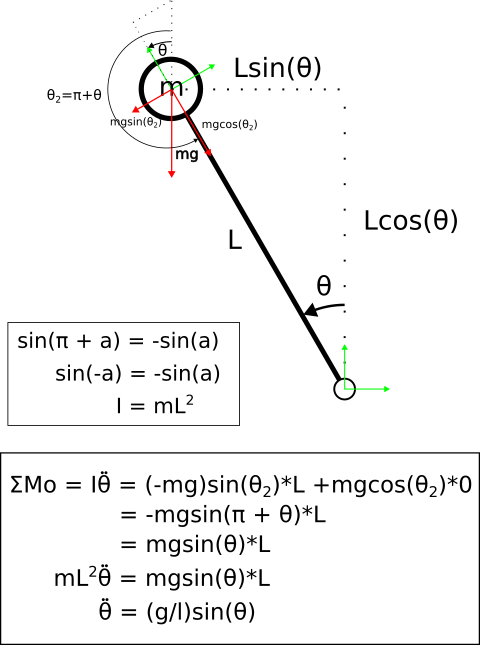
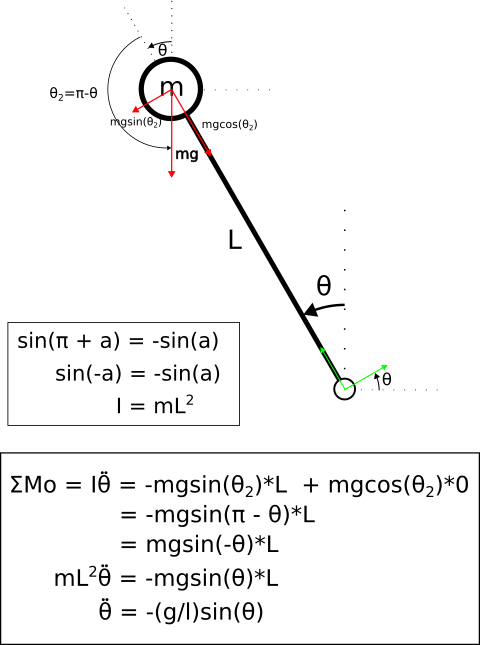
Updated image

diff --git a/numerical_solver.py b/numerical_solver.py
@@ -13,7 +13,7 @@ def forward_euler(pendulum_length, initial_condition: [], sim_time: [], dt):
     sim_dp = []
     sim_ddp = []
     for t in time:
-        ddp = g / length * sin(p)
+        ddp = - g / length * sin(p)
         dp = dp + ddp * dt
         p = p + dp * dt
         sim_p.append(p)
